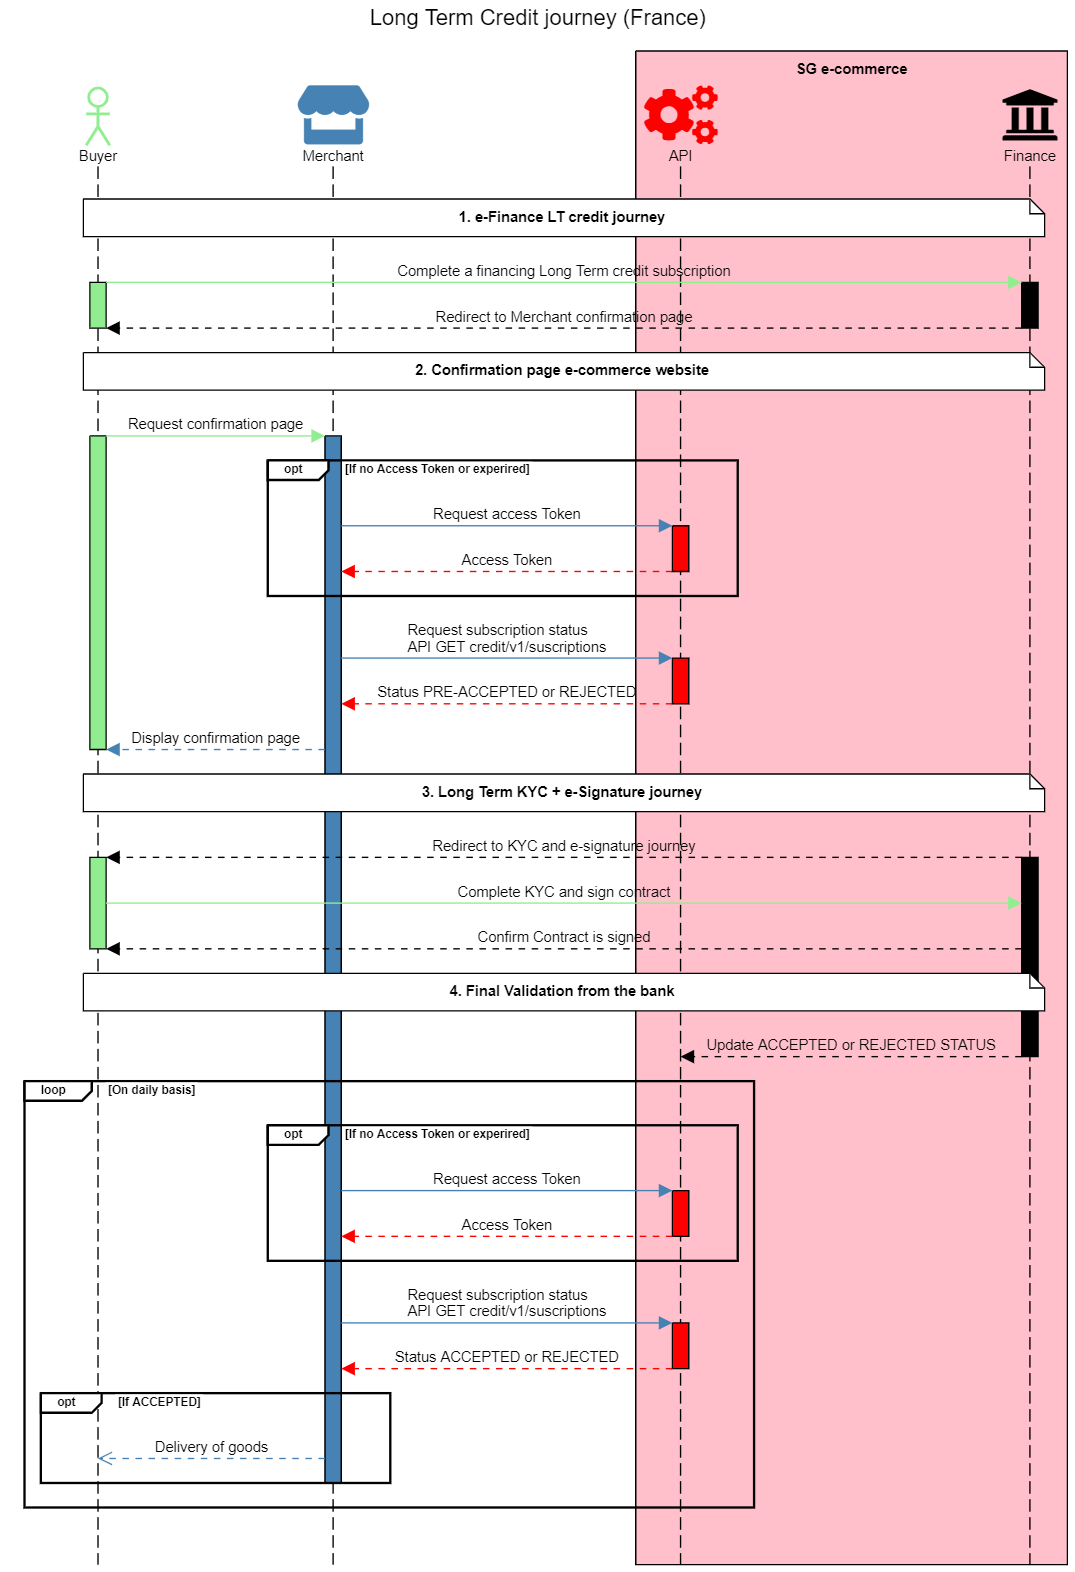
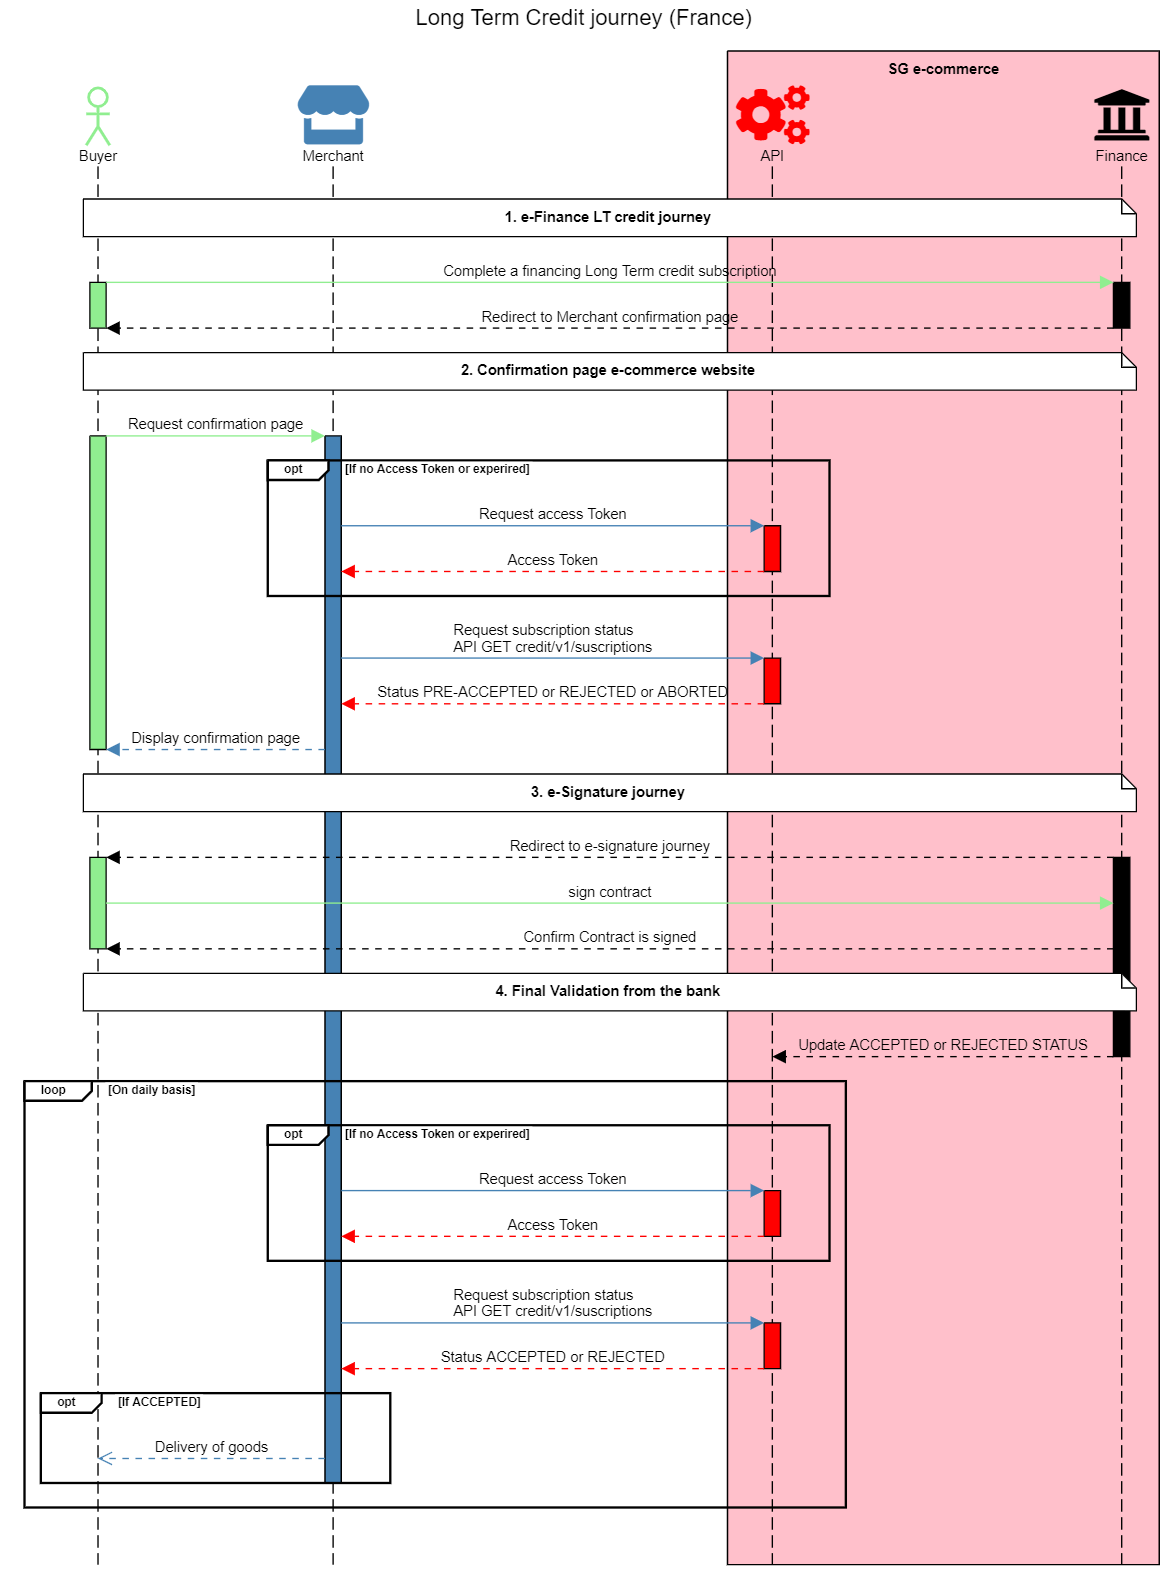
GITBOOK-112: change request with no subject merged in GitBook

diff --git a/use-cases/credit/cancellation-or-reimbursed-journey.md b/use-cases/credit/cancellation-or-reimbursed-journey.md
@@ -1,0 +1,22 @@
+---
+description: Run a cancellation or refund journey by the buyer or by the merchant
+---
+
+# Cancellation or Reimbursed Journey
+
+They could different uses cases that could issued a cancellation or a refund:
+
+* A buyer want to cancel its order completely or partially
+* A merchant want to cancel the order completely or partially
+
+In both cases, this will trigger an action that would be available with a dedicated endpoint. \
+In addition the merchant will have the possibility to cancel or refund a subscription in its Merchant portal. \
+The status of the subscription will be updated to CANCELLED or REIMBURSED:
+
+* CANCELLED = Subscription is completely cancelled
+* REIMBURSED = Subscription is partially cancelled and a partial reimbursement have been done.
+
+{% hint style="warning" %}
+Cancellation and Refund APIs will available soon and the merchant will have a feature in its merchant portal to trigger these actions on behalf of the buyer.&#x20;
+{% endhint %}
+

diff --git a/use-cases/credit/long-term-credit-journey-france.md b/use-cases/credit/long-term-credit-journey-france.md
@@ -20,4 +20,4 @@ Long Term e-financing credit solution is proposed by FRANFINANCE subsidiary For 
 3. When Status is PRE-ACCEPTED, the buyer will be redirected to the KYC and e-signature journey managed by a bank partner (WEBID).&#x20;
 4. Since contract is signed, the bank will confirm final acceptation. On daily basis the merchant will have to access the [`GET credit/v1/subscriptions/{creditSubscriptionId} API`](../../api-reference/credit-api.md#credit-v1-subscriptions-creditsubscriptionid) in order to get the resulting status. The status could be either ACCEPTED or REJECTED. If ACCEPTED the merchant can deliver the goods to the buyer.
 
-<figure><img src="../../.gitbook/assets/Long Term Credit journey France.png" alt=""><figcaption><p>LT credit France</p></figcaption></figure>
+<figure><img src="../../.gitbook/assets/Long Term Credit journey France (1).png" alt=""><figcaption><p>LT credit France</p></figcaption></figure>

diff --git a/SUMMARY.md b/SUMMARY.md
@@ -20,7 +20,7 @@
   * [Split Payment Journey France](use-cases/credit/split-payment-journey-france.md)
   * [Long Term Credit Journey France](use-cases/credit/long-term-credit-journey-france.md)
   * [Long Term Credit Journey Germany](use-cases/credit/long-term-credit-journey-germany.md)
-  * [Cancellation or Refund Journey](use-cases/credit/cancellation-or-refund-journey.md)
+  * [Cancellation or Reimbursed Journey](use-cases/credit/cancellation-or-reimbursed-journey.md)
 * [Insurance journeys](use-cases/insurance.md)
 
 ## Integration Guides

diff --git a/generic-objects-and-codes/status-codes.md b/generic-objects-and-codes/status-codes.md
@@ -1,2 +1,3 @@
 # Status codes
 
+<figure><img src="../.gitbook/assets/ePOs status life cycle (1).jpg" alt=""><figcaption></figcaption></figure>
